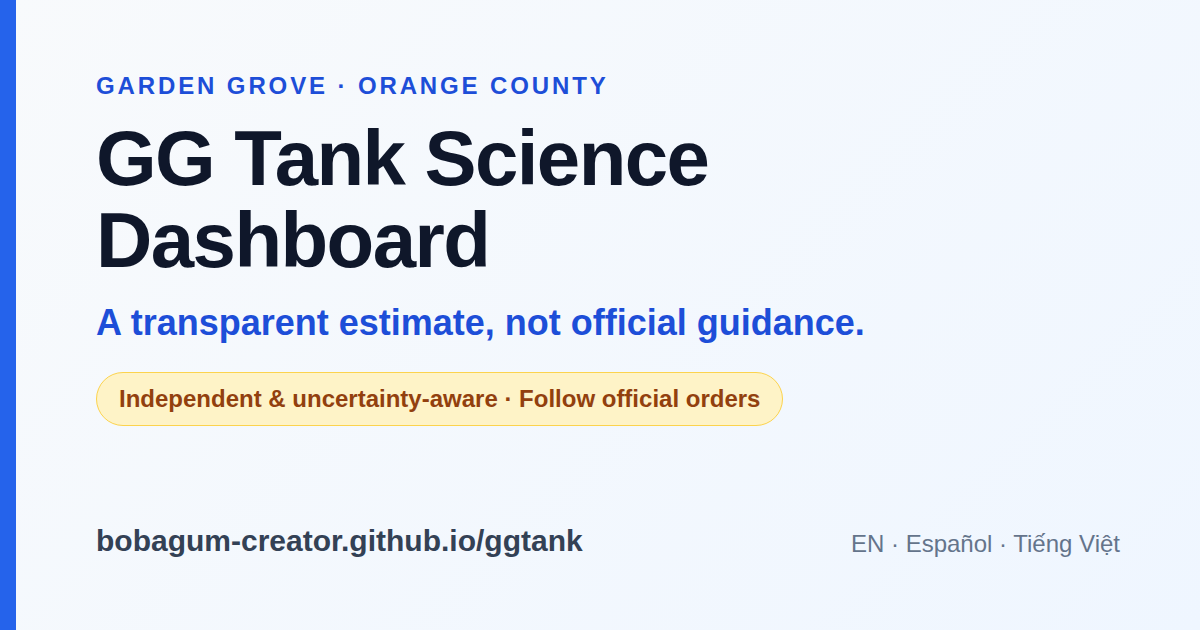
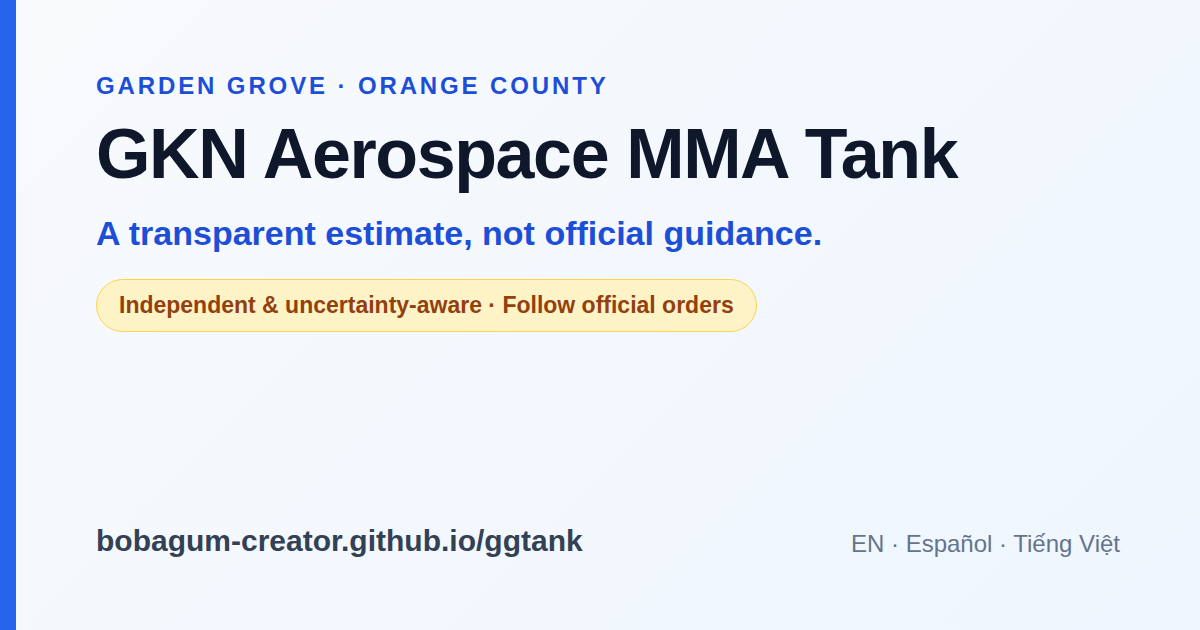
Rename site to GKN Aerospace MMA Tank — Garden Grove (#9)
Make the title relevant to the specific incident. Update the header, footer
brand, share message, native share title, page <title>, OpenGraph/Twitter meta,
the regenerated preview image, README, and package description. Subtitle ("A
transparent estimate, not official guidance.") is unchanged.

https://claude.ai/code/session_014hdER7Q4edPjWqKzGDWQfr

Changed region(s): [[0.0617, 0.3317, 0.7092, 0.5429], [0.0617, 0.573, 0.6783, 0.6937], [0.0617, 0.181, 0.8017, 0.3016]]

diff --git a/index.html b/index.html
@@ -8,14 +8,14 @@
       content="GG Tank Science Dashboard — a transparent, uncertainty-aware educational estimate for the Garden Grove methyl methacrylate (MMA) tank incident. Not official guidance; follow official emergency instructions."
     />
     <meta name="robots" content="index, follow" />
-    <title>GG Tank Science Dashboard — A transparent estimate, not official guidance</title>
+    <title>GKN Aerospace MMA Tank (Garden Grove) — A transparent estimate, not official guidance</title>
 
     <!-- Social preview (OpenGraph / Twitter). Shared links carry the site URL. -->
     <meta property="og:type" content="website" />
-    <meta property="og:site_name" content="GG Tank Science Dashboard" />
+    <meta property="og:site_name" content="GKN Aerospace MMA Tank — Garden Grove" />
     <meta
       property="og:title"
-      content="GG Tank Science Dashboard — a transparent estimate, not official guidance"
+      content="GKN Aerospace MMA Tank — Garden Grove — a transparent estimate, not official guidance"
     />
     <meta
       property="og:description"
@@ -32,7 +32,7 @@
     <meta name="twitter:card" content="summary_large_image" />
     <meta
       name="twitter:title"
-      content="GG Tank Science Dashboard — a transparent estimate, not official guidance"
+      content="GKN Aerospace MMA Tank — Garden Grove — a transparent estimate, not official guidance"
     />
     <meta
       name="twitter:description"

diff --git a/src/i18n/en.ts b/src/i18n/en.ts
@@ -453,11 +453,11 @@ export const en = {
     shareScenario: "Share this scenario",
     revisitAt: "Share or revisit this page at",
     message:
-      "GG Tank Science Dashboard — a transparent, uncertainty-aware estimate. Not official guidance; follow official orders.",
+      "GKN Aerospace MMA Tank — Garden Grove — a transparent, uncertainty-aware estimate. Not official guidance; follow official orders.",
   },
 
   footer: {
-    line1Brand: "GG Tank Science Dashboard.",
+    line1Brand: "GKN Aerospace MMA Tank — Garden Grove.",
     line1:
       " An independent, open-source educational project. Not affiliated with OCFA, GKN Aerospace, the City of Garden Grove, EPA, or Cal OES. It does not determine whether any address is safe.",
     line2:

diff --git a/src/i18n/es.ts b/src/i18n/es.ts
@@ -443,11 +443,11 @@ export const es: Translation = {
     shareScenario: "Compartir este escenario",
     revisitAt: "Comparta o vuelva a esta página en",
     message:
-      "GG Tank Science Dashboard — una estimación transparente y consciente de la incertidumbre. No es orientación oficial; siga las órdenes oficiales.",
+      "GKN Aerospace MMA Tank — Garden Grove — una estimación transparente y consciente de la incertidumbre. No es orientación oficial; siga las órdenes oficiales.",
   },
 
   footer: {
-    line1Brand: "GG Tank Science Dashboard.",
+    line1Brand: "GKN Aerospace MMA Tank — Garden Grove.",
     line1:
       " Un proyecto educativo independiente y de código abierto. No está afiliado a OCFA, GKN Aerospace, la Ciudad de Garden Grove, la EPA ni Cal OES. No determina si alguna dirección es segura.",
     line2:

diff --git a/src/i18n/vi.ts b/src/i18n/vi.ts
@@ -442,11 +442,11 @@ export const vi: Translation = {
     shareScenario: "Chia sẻ kịch bản này",
     revisitAt: "Chia sẻ hoặc xem lại trang này tại",
     message:
-      "GG Tank Science Dashboard — một ước tính minh bạch, lưu ý sự bất định. Không phải hướng dẫn chính thức; hãy tuân theo lệnh chính thức.",
+      "GKN Aerospace MMA Tank — Garden Grove — một ước tính minh bạch, lưu ý sự bất định. Không phải hướng dẫn chính thức; hãy tuân theo lệnh chính thức.",
   },
 
   footer: {
-    line1Brand: "GG Tank Science Dashboard.",
+    line1Brand: "GKN Aerospace MMA Tank — Garden Grove.",
     line1:
       " Một dự án giáo dục độc lập, mã nguồn mở. Không liên kết với OCFA, GKN Aerospace, Thành phố Garden Grove, EPA hay Cal OES. Trang không xác định bất kỳ địa chỉ nào là an toàn.",
     line2:

diff --git a/src/components/EmergencyBanner.tsx b/src/components/EmergencyBanner.tsx
@@ -20,7 +20,7 @@ export function EmergencyBanner() {
         <div className="flex flex-col gap-3 sm:flex-row sm:items-start sm:justify-between">
           <div className="flex flex-col gap-1">
             <h1 className="text-3xl font-extrabold tracking-tight text-slate-900 sm:text-4xl">
-              GG Tank Science Dashboard
+              GKN Aerospace MMA Tank — Garden Grove
             </h1>
             <p className="text-base font-medium text-brand-700">{t.banner.subtitle}</p>
             <a

diff --git a/src/components/ShareButtons.tsx b/src/components/ShareButtons.tsx
@@ -44,7 +44,7 @@ export function ShareButtons({ getUrl, text, size = "md" }: ShareButtonsProps) {
   const onNativeShare = async () => {
     const url = getUrl();
     try {
-      await navigator.share({ title: "GG Tank Science Dashboard", text, url });
+      await navigator.share({ title: "GKN Aerospace MMA Tank — Garden Grove", text, url });
     } catch {
       // User dismissed the share sheet, or it failed — no action needed.
     }

diff --git a/README.md b/README.md
@@ -1,4 +1,4 @@
-# GG Tank Science Dashboard
+# GKN Aerospace MMA Tank — Garden Grove
 
 **A transparent estimate, not official guidance.**
 